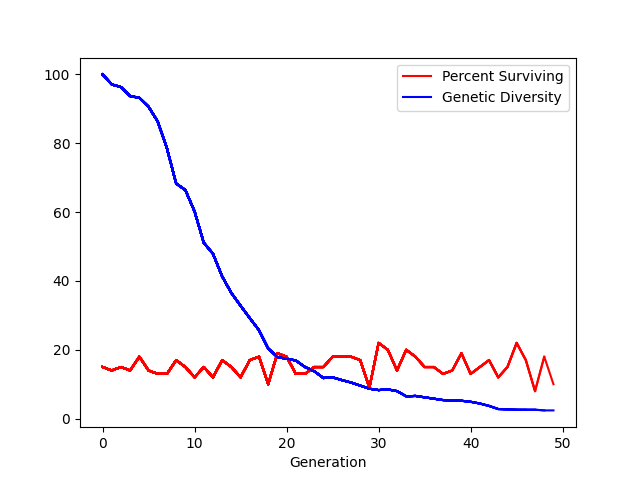
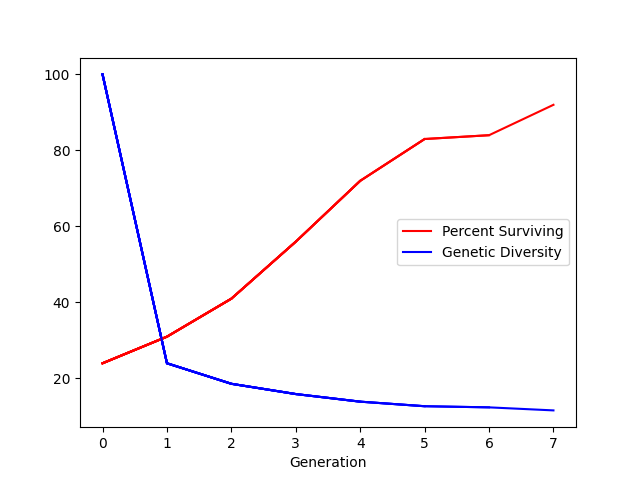
fixed sexual reproduction

diff --git a/environment.py b/environment.py
@@ -145,6 +145,7 @@ class Environment:
 			new_cell_list.append(new_cell)
 
 		self.cells = new_cell_list
+		self.mutate_all_cells()
 		self.shuffle_cells()
 		self.fix_grid()
 
@@ -218,12 +219,19 @@ def get_child_genome(genome_list):
 
 def get_child_gene(gene_list):
 
+
+	# Get each base randomly
+	'''
 	child_gene = ''
 
 	for i in range(len(gene_list[0])): # iterate through letters of a gene
 
 		parent_idx = random.randint(0, len(gene_list) - 1)
 		child_gene += gene_list[parent_idx][i]
+	'''
+
+	parent_idx = random.randint(0, len(gene_list) - 1)
+	child_gene = gene_list[parent_idx]
 
 	return child_gene
 

diff --git a/main.py b/main.py
@@ -30,6 +30,7 @@ def main():
 	N_GENERATIONS = 1000
 	POPULATION = 100
 	MUTATION_RATE = 0.00
+	N_PARENTS = 2
 
 	# Statistics
 	survival_rate_stat = []
@@ -121,7 +122,7 @@ def main():
 					running = False
 					quit()
 				else:
-					environment.get_next_generation(n_parents=2, new_population=NEW_POPULATION)
+					environment.get_next_generation(n_parents=N_PARENTS, new_population=NEW_POPULATION)
 				plt.plot(survival_rate_stat, label='Percent Surviving', color='red')
 				plt.plot(genetic_diversity_stat, label='Genetic Diversity', color='blue')
 				plt.xlabel('Generation')

diff --git a/cell.py b/cell.py
@@ -273,6 +273,9 @@ class Cell:
 
 	def get_mutated_genome(self, mutation_rate):
 
+		if mutation_rate == 0:
+			return self.genome
+		
 		nucleotides = '0123456789abcdef'
 		genome_mut = []
 
